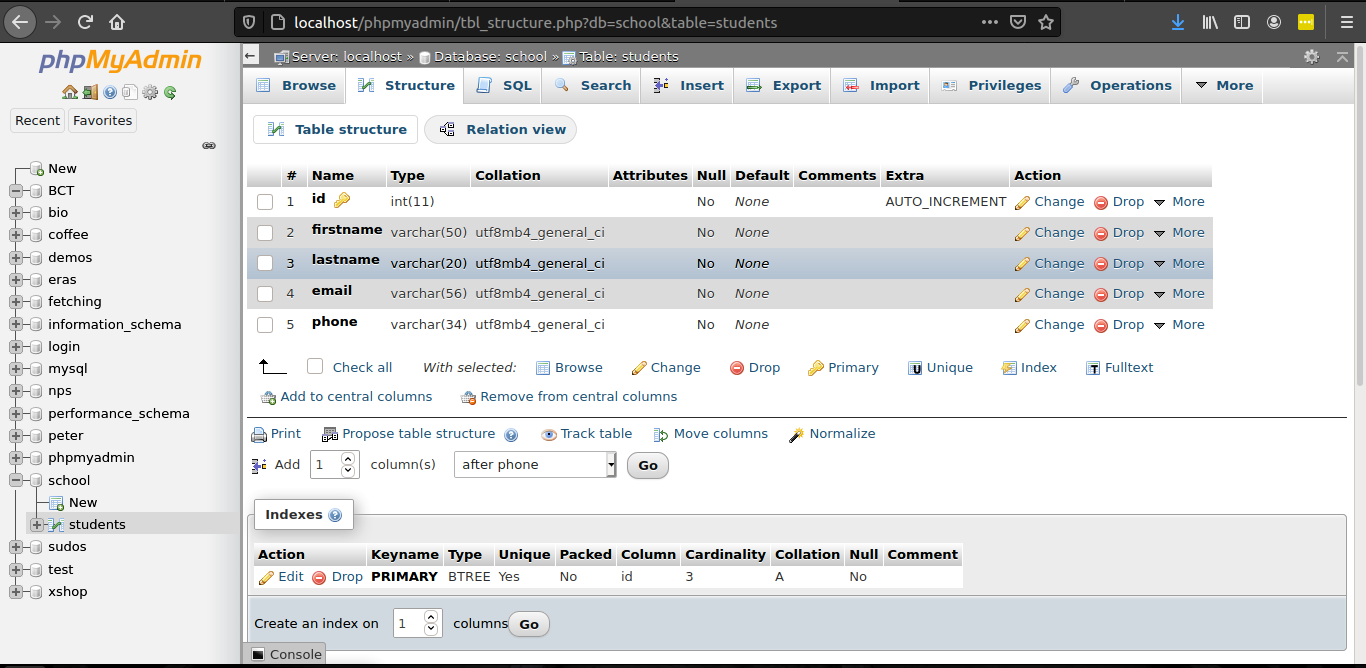
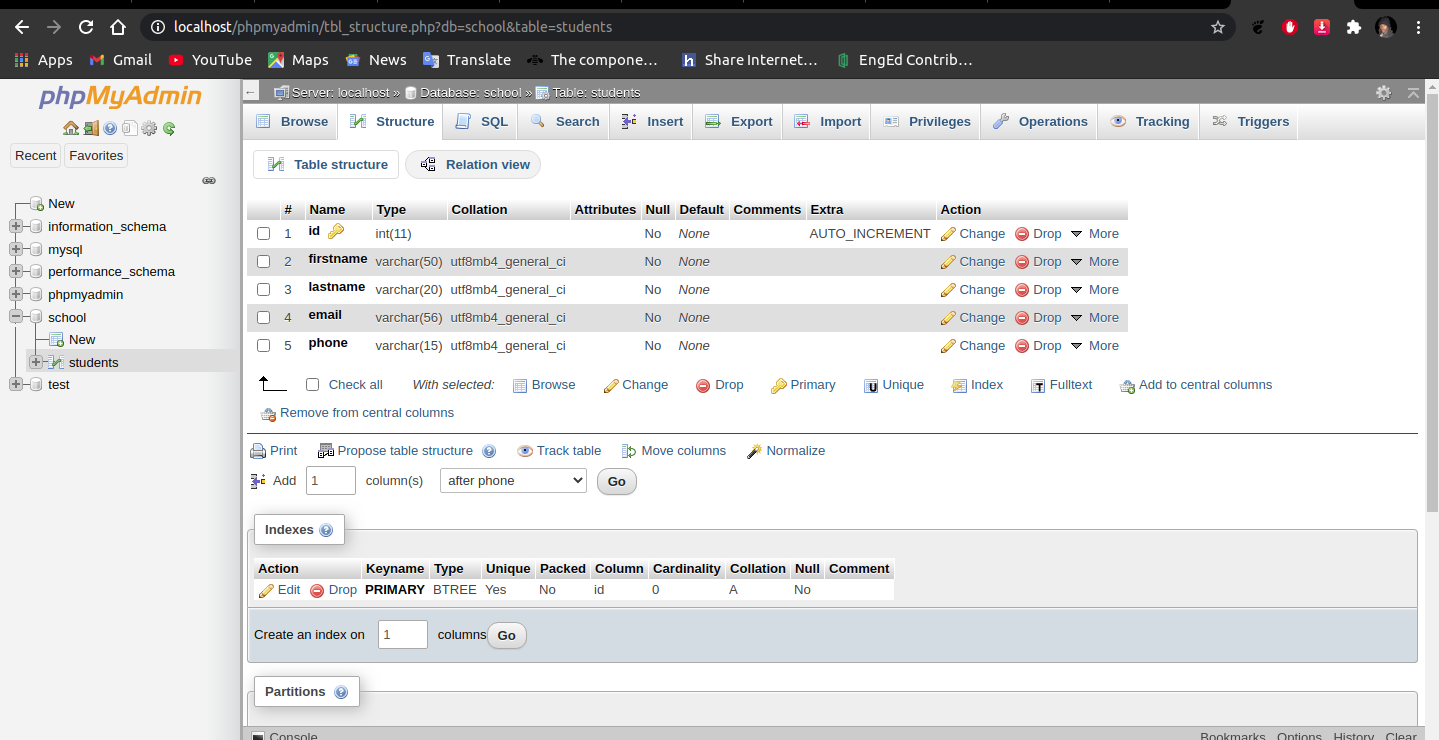
minor charges

diff --git a/index.md b/index.md
@@ -1,5 +1,5 @@
 ### Creating, Connecting, Storing, and fetching data from MariaDatabase using PHP 
-Working with the Database seems to be a very complicated thing in a Developer's coding life. But to me, this is not the case. In this article, we will prove how easy it is to work with MariaDatabase with only SQL and PHP knowledge.
+Working with the Database seems to be  very complicated in a Developer's coding life. But to me, this is not the case. In this article, we will prove how easy it is to work with MariaDatabase with only SQL and PHP knowledge.
 ### Prerequisites
 To use this tutorial you need to ;
 - have `HTML` and `CSS` knowledge
@@ -20,7 +20,7 @@ To install Xampp you need to;
 ### . Download the package to be installed.
 Downloading the package is always the first step you need to do when installing Xampp. You can download the package [here](https://www.apachefriends.org/download.html). Download the latest version of Xampp for Linux and start the installation. Very easy.
 ### . Give the package permission so that it can be executable
-To make this package executable, you need to open the terminal (Ctrl+alt+T) and follow the following;
+To make this package executable, you need to open the terminal (Ctrl+alt+T) and follow the following:
 
 1. Move to where your package is located. In my case,  it is in the Downloads folder and so I will navigate to the Downloads folder using this command:
 ```bash
@@ -29,7 +29,7 @@ $ cd /home/[username]/Downloads
 ```
 2. Run the Chmod command (sudo chmod 755 [package name] )to make the package file executable.
 
-The  Xampp version may differ. In my case I have then following;
+The  Xampp version may differ. In my case I have then following:
 ```bash
 $ sudo chmod 755 xampp-linux-x64-7.4.10-0-installer.run
 ```
@@ -53,13 +53,13 @@ $ sudo ./xampp-linux-x64-7.4.10-0-installer.run
 ![XAMPP Setup Wizard](img1.png)
 
 ### . Select Components dialogue
-1. You should click ``Next`` in the above image and Select Components dialogue. You should choose either XAMPP Core Files or Xampp Developer Files and install. You may keep the default setting and proceed with ``Next``
+1. You should click ``Next`` in the above image and Select Components dialogue. You should choose either XAMPP Core Files or Xampp Developer Files and install. You may keep the default setting and proceed with `Next`
 
 2. The Setup will show you where the software will be installed. The location should be `/opt/lampp`. Click `Next` to proceed.
 
-3. After clicking next, you should see a dialogue box installing applications. Uncheck  ``Learn more about Bitnami for XAMPP`` to deny and click ``Next``.
+3. After clicking next, you should see a dialogue box installing applications. Uncheck  `Learn more about Bitnami for XAMPP` to deny and click `Next`.
 
-4. Xampp is now ready to be installed by the Wizard. Start the installation by clicking ``Next``.
+4. Xampp is now ready to be installed by the Wizard. Start the installation by clicking `Next`.
 
 5. The Installation process should start immediately as in the figure below.
 ![XAMPP Setup Wizard](img2.png)
@@ -67,7 +67,7 @@ $ sudo ./xampp-linux-x64-7.4.10-0-installer.run
 ### . Launching Xampp
 When you click next, the Xampp control panel will be displayed on the screen as in the figure below:
 ![XAMPP Setup Wizard](img3.png)
-In the Manage Serves tab, click ``Start`` to start all the services.
+In the Manage Serves tab, click `Start` to start all the services.
 ### . Verifying that XAMPP is running
 Here we are going to verify that we have installed two things. The `localhost` and the `MariaDB`
 1. For localhost enter the following URL in a browser: http://localhost/dashboard
@@ -75,38 +75,36 @@ If You see an image like the one below, the Xampp is installed in your machine.
 ![localhost dashboard](img4.png)
 2. For MariaDB open the URL: http://localhost/phpmyadmin/
 Your browser should look like this;
-![localhost phpmyadmin](database3.png)
-Note: In your Database, you should not have any databases as your yet to create one.
-
+![localhost phpmyadmin](DB.png)
 
 ### Step 2: Creating tables in MariaDB using SQL commands in the terminal.
 Now that we have our environment working, we can start working with the MariaDB. 
 
 In the terminal, type;
 ```bash
-sudo /opt/lampp/bin/mysql -u root -p
+$ /opt/lampp/bin/mysql -u root -p
 ```
-The terminal will ask you for a password, click enter as we have not set any password;
+The terminal will ask you for a password, click enter as we have not set any password.
 
-When you click enter you should have the following output;
+When you click enter you should have the following output:
 ![database](maria.png)
 
 In the above diagram, it means that you are now working on the MariaDatabase.
 
-The next thing to do is to create a Database. Let's create a Database called school. Type;
+The next thing to do is to create a Database. Let's create a Database called school. Type:
 ```bash
 create database school;
 ```
 `Query OK, 1 row affected (0.000 sec)
 ` should be your output.
 
-To confirm that you have created a Database school, use this command;
+To confirm that you have created a Database school, use this command:
 ```bash
 show databases;
 ```
 The terminal should display  `Database` `school`  only since this is the only `Database` we have.
 
-Now let's navigate inside `database school` and create tables. To do this, we will use the SQL command `use`. Type;
+Now let's navigate inside `database school` and create tables. To do this, we will use the SQL command `use`. Type:
 ```bash
  use school;
 ```
@@ -115,13 +113,13 @@ Now let's navigate inside `database school` and create tables. To do this, we wi
 Now that we are in `database school` we can create tables. Lets create a table students;
 ```bash
 create table students(
-    -> id int(11) not null primary key,
-    -> firstname varchar(50) not null,
-    -> lastname varchar(20) not null,
-    -> email varchar(56 not null,
-    -> phone int(34) not null);
+    id int(11) not null AUTO_INCREMENT primary key,
+    firstname varchar(50) not null,
+    lastname varchar(20) not null,
+    email varchar(56) not null,
+    phone varchar(15) not null);
 ```
-For output of the tables above, enter this command;
+For output of the tables above, enter this command:
 ```bash
 desc students;
 ```
@@ -131,7 +129,7 @@ The output should be as this image below;
 So far, we have created a `database school` and  `tables` inside the school Database via terminal. Now, let's view this database school and its tables in the MariaDB. When you open the URL: http://localhost/phpmyadmin/  you should have an image like this.
 
 ![database](database.png)
-Note: In your database, you should have only one Database called school if it is your first Database.
+
 ### Step 3: Creating a registration form
 1. Here, we will create a form and store the details of that form in our database.
 
@@ -139,27 +137,29 @@ In step 1, we had said that Xampp will be installed in `/opt/lampp`. Inside `/op
 ```bash
 [username]@[username]:/opt/lampp/htdocs$ 
 ``` 
-To create folder ``test``, type the following in the terminal;
+To create folder `test`, type the following in the terminal:
 ```bash
 $ sudo mkdir test
 ```
-Let's now navigate inside the ``test`` folder and create two files. Use this command to navigate inside the ``test`` folder;
+Let's now navigate inside the `test` folder and create two files. Use this command to navigate inside the `test` folder:
 ```bash
 $ cd test
 ```
-You should have this output ``[usename]@[username]:/opt/lampp/htdocs/test$``
+You should have this output `[usename]@[username]:/opt/lampp/htdocs/test$`
 
-To create the first file, type
+To create the first file, type:
 ```bash
 $ sudo nano index.php
 ```
 After clicking enter, a page with the title `index.php` will open. Close this page and use another suitable code editor. To close click(ctrl+O)followed by (ctrl+enter) followed by(ctrl+x). This will take you back to the terminal.
 
-Create a second file;
+Create a second file:
 ```bash
 $ sudo nano connect.php
 ```
-2. Open ```test``` folder using your favorite code editor and enter the following in `index.php`.
+Note. To close `connect.php` page follow the same procedure you have done in `index.php`
+
+2. Open `test` folder using your favorite code editor and enter the following in `index.php`.
 ```html
 <!DOCTYPE html>
 <html>
@@ -188,9 +188,14 @@ $ sudo nano connect.php
 </body>
 </html>
 ```
-To style the form above enter the following code after `</form>`
+Note:If you try to save the file `index.php`, you will get an error `failed to save index.php`, since your working in an environment that requires user permission. To solve the error select `click Retry as Sudo and enter your password`. This is how we will be saving our files in this article. The error is as the image below:
+![error](error.png)
+
+To test the form above using a browser, open URL: http://localhost/test 
+
+To style the html form you have created above enter the following code after `</form>`
 ```css
-<styles>
+<style>
 body
   {
  
@@ -201,11 +206,11 @@ body
  h3{
  color: white;
   }
-</styles>
+</style>
 ```
 When you open the URL: http://localhost/test , you should have a page like this on your browser;
 ![form](test.png)
-3. Now we connect our form with the database. Inside connect.php enter this code;
+3. Now we connect our form with the database. Inside connect.php enter this code:
 ```php
 <?php
 //Database records.The records we have in the database
@@ -221,8 +226,6 @@ $servername ='localhost';
 $username ='root';
 $password ='';
 $dbname ='school';
-
-
 
 $conn = new mysqli("localhost","root",'',"school");
 
@@ -253,7 +256,7 @@ else
 
 ```
 ### Step 4: Storing data into the database
-If we fill our form with the below details and save it, our ``school database ``should have the same details.
+If we fill our form that we created(URL: http://localhost/test ) with the below details and save it, our `school database `should have the same details.
 
 Firstname-Peter
 
@@ -267,11 +270,10 @@ When we call http://localhost/phpmyadmin/ on the browser we should have somethin
 ![database2](database2.png)
 
 ### Step 5: Fetching data from the Database
-To fetch data that we have saved, we will add some code inside ``index.php``. The code will be added below ``</form>``.
+To fetch data that we have saved, we will add some code inside `index.php`. The code will be added below `</form>`.
 ```PHP
-//
 <br> <br>
- // Creating a table where data from database will be stored
+ //Creating a table where data from database will be stored
  <h3>Fetching Data from database</h3>
  <table align="center" style="width:300px;">
  <tr>
@@ -318,4 +320,4 @@ On refreshing the page, ( http://localhost/test) we have;
 ![database2](img5.png)
 The data at the bottom of the page have been fetched from the database.
 ### Conclusion
-From this article, we have learned that working with a Database is as easier as working with any other code. and we have concluded that it is a myth to say that Database is the only meant for backend expert only
+From this article, we have learned that working with a Database is as easier as working with any other code. and we have concluded that it is a myth to say that Database is the only meant for backend expert only.
